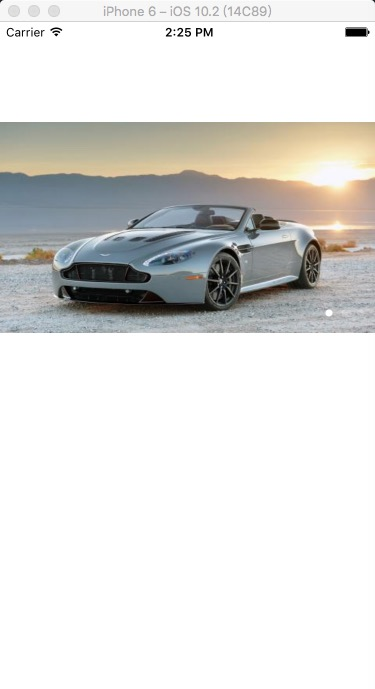
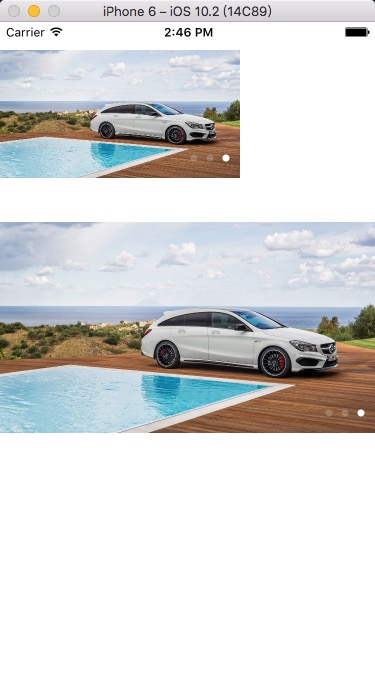
IBOutlet

diff --git a/RLCycleScrollView/ViewController.swift b/RLCycleScrollView/ViewController.swift
@@ -9,16 +9,20 @@
 import UIKit
 
 class ViewController: UIViewController {
-
+    
+@IBOutlet weak var cycleView: RLCycleScrollView!
+    
+    
+    
     override func viewDidLoad() {
         super.viewDidLoad()
         // Do any additional setup after loading the view, typically from a nib.
         
         let imgList:NSMutableArray = ["0.jpg","1.jpg","2.jpg"]
-        
         let width = UIScreen.main.bounds.size.width
         
-        let view_ = RLCycleScrollView.init(frame: CGRect(x:0,y:100,width:width,height:width*(9/16)))
+        
+        let view_ = RLCycleScrollView.init(frame: CGRect(x:0,y:200,width:width,height:width*(9/16)))
         view_.setItems(itemsPar: imgList)
         view_.downloadItem { (imgview, index) in
             print("======== download img ========")
@@ -35,7 +39,29 @@ class ViewController: UIViewController {
         }
         
         self.view.addSubview(view_)
+        
+        
+        
+        self.cycleView.setItems(itemsPar: imgList)
+        self.cycleView.downloadItem { (imgView, index) in
+            print("======== download img ========")
+            print(imgView)
+            print(index)
+            
+            imgView.image = UIImage.init(named: imgList[index] as! String)
+            
+            //网络图片也在此处下载显示
+        }
+        
+        
+        self.cycleView.didSelectItem { (index) in
+            print(index)
+        }
+        
+        
+        
     }
+    
 
     override func didReceiveMemoryWarning() {
         super.didReceiveMemoryWarning()

diff --git a/RLCycleScrollView/RLCycleScrollView.swift b/RLCycleScrollView/RLCycleScrollView.swift
@@ -38,7 +38,12 @@ class RLCycleScrollView: UIView , UIScrollViewDelegate{
     }
     
     required init?(coder aDecoder: NSCoder) {
-        fatalError("init(coder:) has not been implemented")
+//        fatalError("init(coder:) has not been implemented")
+        super.init(coder: aDecoder)
+    }
+    
+    override func awakeFromNib() {
+        super.awakeFromNib()
     }
 
 }
